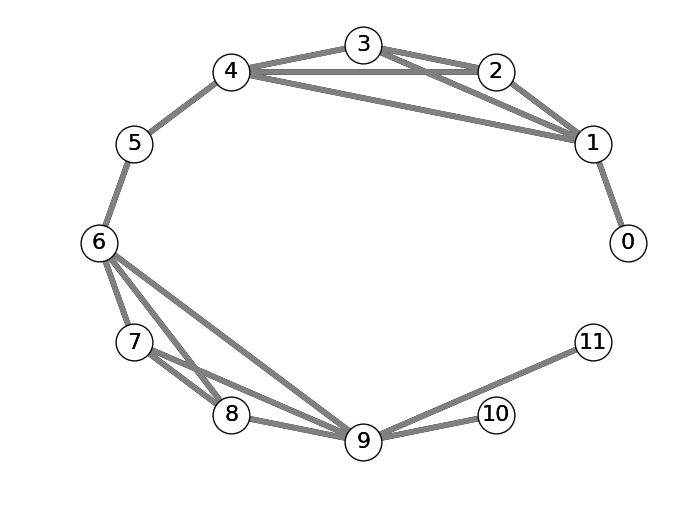
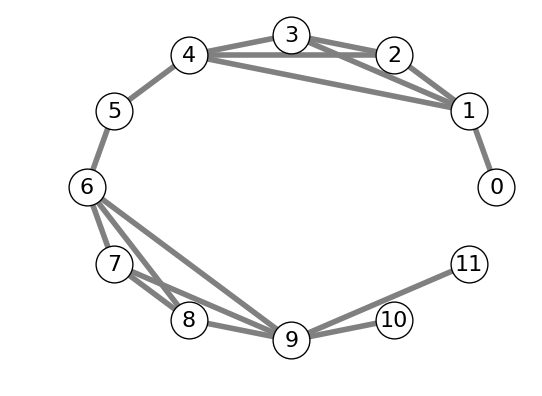
update

Changed region(s): [[0.1181, 0.0303, 0.9151, 0.9091], [0.8561, 0.3636, 0.9742, 0.5455]]

diff --git a/python_experiments/algorithm_vis/pscan_algo_vis.py b/python_experiments/algorithm_vis/pscan_algo_vis.py
@@ -1,9 +1,6 @@
-import math
 import networkx as nx
 import matplotlib.pyplot as plt
-from itertools import chain
-
-from disjoint_set import DisjointSet
+from pscan_algo import to_csr_graph
 
 
 def vis_input(graph):
@@ -11,230 +8,14 @@ def vis_input(graph):
     :type graph: nx.Graph
     """
     pos = nx.circular_layout(graph)
-    nx.draw(graph, with_labels=True, pos=pos, font_size=16, node_size=700, alpha=1, width=4,
-            node_color='black')
-    nx.draw(graph, with_labels=True, pos=pos, font_size=16, node_size=600, alpha=1, width=4,
-            edge_color='grey', node_color='white')
+    nx.draw_networkx_nodes(graph, with_labels=True, pos=pos, font_size=16, node_size=700, alpha=1.0, width=4,
+                           node_color='black')
+    nx.draw_networkx(graph, with_labels=True, pos=pos, font_size=16, node_size=600, alpha=1.0, width=4,
+                     edge_color='grey', node_color='white')
 
     plt.axis('off')
     plt.savefig('./demo_input_graph.png', bbox_inches='tight', pad_inches=0, transparent=True)
     plt.show()
-
-
-# pre-processing, neighbors should be sorted
-def to_csr_graph(graph):
-    """
-    :type graph: nx.Graph
-    """
-    # 1st: deg_lst
-    deg_lst = [0] * (max(graph.nodes()) + 1)
-    for node in graph.nodes():
-        deg_lst[node] = nx.degree(graph, node)
-    assert 2 * graph.number_of_edges() == sum(deg_lst)
-
-    # 2nd: offset_lst
-    offset_lst = [0] * (len(deg_lst) + 1)
-    # prefix sum
-    for i in xrange(len(deg_lst)):
-        offset_lst[i + 1] = offset_lst[i] + deg_lst[i]
-
-    # 3rd: dst_v_lst, should be sorted
-    dst_v_lst = list(chain.from_iterable(map(lambda node: sorted(graph.neighbors(node)), graph.nodes())))
-    return offset_lst, dst_v_lst, deg_lst
-
-
-class PScan:
-    not_direct_reachable = -2
-    direct_reachable = -1
-    not_sure = 0
-
-    def __init__(self, offset_lst, dst_v_lst, deg_lst, eps, min_pts):
-        # parameters
-        self.eps = eps
-        self.min_pts = min_pts
-
-        self.n = len(deg_lst)
-
-        # offset and vertex properties
-        self.offset_lst = offset_lst
-        self.inc_degree_lst = map(lambda degree_val: degree_val + 1, deg_lst)
-        self.similar_degree_lst = [0] * len(self.inc_degree_lst)
-
-        # dst_v and edeg properties
-        self.dst_v_lst = dst_v_lst
-        self.min_cn_lst = [PScan.not_sure] * len(self.dst_v_lst)
-
-        # disjoint set
-        self.disjoint_set = DisjointSet(self.n)
-
-        # non-core clustering
-        self.cluster_dict = [self.n] * self.n
-        self.non_core_cluster = []
-
-        # 1. statistics for prune
-        self.prune0 = 0  # definitely not reachable
-        self.prune1 = 0  # definitely reachable
-
-        # 2.1 statistics for check core 1st bsp: set intersection with early stop
-        self.intersect = 0
-        self.cmp0 = 0
-        self.cmp1 = 0
-        self.cmp_equ = 0
-
-        # 2.2 statistics for check core 2nd bsp: binary search
-        self.binary_search_call = 0
-
-        # 3 statistics for disjoint set
-
-        self.result_lines = []
-
-    def is_definitely_not_reachable(self, u, v):
-        du = self.inc_degree_lst[u]
-        dv = self.inc_degree_lst[v]
-        return True if min(du, dv) < max(du, dv) * (self.eps ** 2) else False
-
-    def compute_cn_lower_bound(self, u, v):
-        return int(math.ceil(math.sqrt(self.inc_degree_lst[u] * self.inc_degree_lst[v]) * self.eps))
-
-    # 1st: prune
-    def prune(self):
-        for i in xrange(self.n):
-            for j in xrange(offset_lst[i], offset_lst[i + 1]):
-                v = self.dst_v_lst[j]
-                if i < v:
-                    if self.is_definitely_not_reachable(i, v):
-                        self.prune0 += 1
-                        self.min_cn_lst[j] = PScan.not_direct_reachable
-                    else:
-                        tmp = self.compute_cn_lower_bound(i, v)
-                        if tmp <= 2:
-                            self.prune1 += 1
-                            self.min_cn_lst[j] = PScan.direct_reachable
-                        else:
-                            self.min_cn_lst[j] = tmp
-
-    def eval_density(self, u, edge_idx):
-        self.intersect += 1
-        v = dst_v_lst[edge_idx]
-        cn = 2
-
-        du = self.inc_degree_lst[u] + 1
-        dv = self.inc_degree_lst[v] + 1
-        offset_nei_u = offset_lst[u]
-        offset_nei_v = offset_lst[v]
-        min_cn_num = self.min_cn_lst[edge_idx]
-
-        while offset_nei_u < offset_lst[u + 1] and offset_nei_v < offset_lst[v + 1] \
-                and cn < min_cn_num <= du and dv >= min_cn_num:
-            if self.dst_v_lst[offset_nei_u] < self.dst_v_lst[offset_nei_v]:
-                du -= 1
-                offset_nei_u += 1
-                self.cmp0 += 1
-            elif self.dst_v_lst[offset_nei_u] > self.dst_v_lst[offset_nei_v]:
-                dv -= 1
-                offset_nei_v += 1
-                self.cmp1 += 1
-            else:
-                cn += 1
-                offset_nei_v += 1
-                offset_nei_u += 1
-                self.cmp_equ += 1
-        return PScan.direct_reachable if cn >= min_cn_num else PScan.not_direct_reachable
-
-    # 2nd: check core 1st bsp computation
-    def check_core_1st_bsp(self, u):
-        for edge_idx in xrange(self.offset_lst[u], self.offset_lst[u + 1]):
-            if self.min_cn_lst[edge_idx] > 0 and u <= self.dst_v_lst[edge_idx]:
-                self.min_cn_lst[edge_idx] = self.eval_density(u, edge_idx)
-
-    def binary_search(self, array, offset_beg, offset_end, val):
-        self.binary_search_call += 1
-        mid = (offset_beg + offset_end) / 2
-        if array[mid] == val:
-            return mid
-        return self.binary_search(array, offset_beg, mid, val) if val < array[mid] \
-            else self.binary_search(array, mid + 1, offset_end, val)
-
-    # 2nd: check core 2nd bsp computation
-    def check_core_2nd_bsp(self, u):
-        for edge_idx in xrange(self.offset_lst[u], self.offset_lst[u + 1]):
-            v = self.dst_v_lst[edge_idx]
-            if u > v:
-                self.min_cn_lst[edge_idx] = self.min_cn_lst[
-                    self.binary_search(self.dst_v_lst, self.offset_lst[v], self.offset_lst[v + 1], u)]
-            if self.min_cn_lst[edge_idx] == PScan.direct_reachable:
-                self.similar_degree_lst[u] += 1
-
-    def is_definite_core_vertex(self, u):
-        return self.similar_degree_lst[u] >= self.min_pts
-
-    # 3rd: cluster cores
-    def cluster_core(self, u):
-        for edge_idx in xrange(self.offset_lst[u], self.offset_lst[u + 1]):
-            if self.min_cn_lst[edge_idx] == PScan.direct_reachable \
-                    and self.is_definite_core_vertex(self.dst_v_lst[edge_idx]):
-                # print 'union ', u, self.dst_v_lst[edge_idx]
-                self.disjoint_set.union(u, self.dst_v_lst[edge_idx])
-
-    def mark_cluster_min_ele_as_id(self):
-        for i in xrange(self.n):
-            if self.is_definite_core_vertex(i):
-                x = self.disjoint_set.find_root(i)
-                if i < self.cluster_dict[x]:
-                    self.cluster_dict[x] = i
-
-    # 4th: cluster non-cores
-    def cluster_non_core(self):
-        self.mark_cluster_min_ele_as_id()
-        for i in xrange(self.n):
-            if self.is_definite_core_vertex(i):
-                for j in xrange(self.offset_lst[i], self.offset_lst[i + 1]):
-                    if not self.is_definite_core_vertex(self.dst_v_lst[j]) \
-                            and self.min_cn_lst[j] == PScan.direct_reachable:
-                        self.non_core_cluster.append(
-                            (self.cluster_dict[self.disjoint_set.find_root(i)], self.dst_v_lst[j]))
-
-    def output_result(self):
-        for i in xrange(self.n):
-            if self.is_definite_core_vertex(i):
-                line = ' '.join(map(str, ['c', i, self.cluster_dict[self.disjoint_set.find_root(i)]]))
-                self.result_lines.append(line)
-                print line
-
-        for cluster_id, non_core_v in sorted(set(self.non_core_cluster)):
-            line = ' '.join(map(str, ['n', non_core_v, cluster_id]))
-            self.result_lines.append(line)
-            print line
-
-    def run_algorithm(self):
-        # 1st: prune
-        self.prune()
-        print 'min_cn_lst after prune:\t\t', self.min_cn_lst
-
-        # 2nd: check core
-        for i in xrange(self.n):
-            self.check_core_1st_bsp(i)
-        candidates = []
-        for i in xrange(self.n):
-            # print 'check core', i, 'neighbors:', self.dst_v_lst[self.offset_lst[i]:self.offset_lst[i + 1]]
-            self.check_core_2nd_bsp(i)
-            if self.is_definite_core_vertex(i):
-                candidates.append(i)
-        print 'min_cn_lst after check core:\t\t', self.min_cn_lst
-
-        # 3rd: cluster cores
-        print 'cores:', candidates
-        for candidate in candidates:
-            self.cluster_core(candidate)
-
-        # 4th: cluster non-core
-        self.cluster_non_core()
-
-        # finally, output result
-        print '\n', '\t'.join(['core/non-core', 'vertex id', 'cluster id(min core vertex id in this cluster)']), '\n'
-        self.result_lines.append('c/n vertex_id cluster_id')
-        print 'c/n vertex_id cluster_id'
-        self.output_result()
 
 
 if __name__ == '__main__':
@@ -242,5 +23,4 @@ if __name__ == '__main__':
     vis_input(graph)
 
     offset_lst, dst_v_lst, deg_lst = to_csr_graph(graph)
-    pscan_algo = PScan(offset_lst, dst_v_lst, deg_lst, eps=0.6, min_pts=3)
-    pscan_algo.run_algorithm()
+    print 'csr representation:\noffset_lst=', offset_lst, '\ndst_v_lst=', dst_v_lst, '\ndeg_lst=', deg_lst, '\n'

diff --git a/python_experiments/algorithm_vis/ReadMe.md b/python_experiments/algorithm_vis/ReadMe.md
@@ -13,9 +13,11 @@ modify this line to use different `eps` and `min_pts`
 ```python
 pscan_algo = PScan(offset_lst, dst_v_lst, deg_lst, eps=0.6, min_pts=3)
 ```
-## Algorithm Example
+## Algorithm I/O Example
 
-* input file: [demo_input_graph.txt](demo_input_graph.txt)
+* input 
+
+file: [demo_input_graph.txt](demo_input_graph.txt)
 
 ![demo input graph](demo_input_graph.png)
 
@@ -28,7 +30,7 @@ dst_v_lst = [1, 0, 2, 3, 4, 1, 3, 4, 1, 2, 4, 1, 2, 3, 5, 4, 6,
 deg_lst = [1, 4, 3, 3, 4, 2, 4, 3, 3, 5, 1, 1]
 ```
 
-* output sample
+* output 
 
 ```zsh
 not_direct_reachable = -2, direct_reachable = -1, not_sure = 0, >0 means min_cn to satisfy direct reachable 
@@ -54,7 +56,11 @@ c 9 6
 n 0 1
 ```
 
-## Algorithm Components
+## Algorithm Status Visual Aids
+
+
+
+## Algorithm Components in Detail
 
 ### 1. Prune
 
